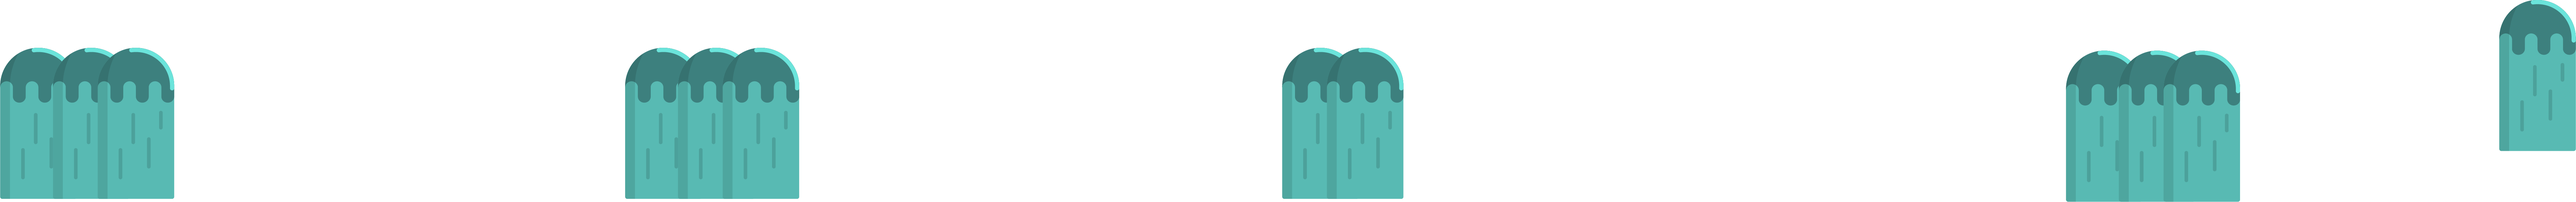
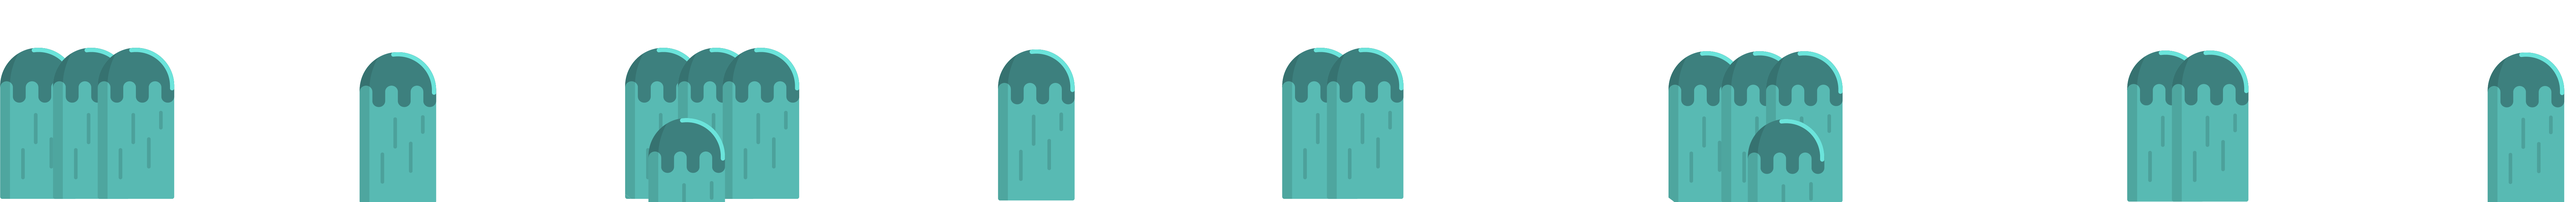
Creating the game end point.

diff --git a/app/(rootGame)/_components/AnimatedCanvas.tsx b/app/(rootGame)/_components/AnimatedCanvas.tsx
@@ -5,7 +5,7 @@ import { Player } from "@/utils/player";
 import { Platforms } from "@/utils/platforms";
 import { createImage } from "@/utils/createImage";
 import { GenericObjects } from "@/utils/genericObjects";
-import { randomNumbers } from "@/utils/randomNumbers";
+
 
 function AnimatedCanvas() {
   const longPlatformImg = createImage("assets/platform.png");
@@ -69,13 +69,13 @@ function AnimatedCanvas() {
 
   const updateCollisions = () => {
     setPlayer((curPlayer) => {
-      if (keys.right.pressed && curPlayer.position.x < 500) {
+      if (keys.right.pressed && curPlayer.position.x < 500&& km < 14000) {
         curPlayer.velocityX = 3;
-      } else if (keys.left.pressed && curPlayer.position.x > 230) {
+      } else if (keys.left.pressed && curPlayer.position.x > 230&& km !== 14000) {
         curPlayer.velocityX = -3;
       } else {
         curPlayer.velocityX = 0;
-        if (keys.right.pressed) {
+        if (keys.right.pressed && km < 14000) {
           km += 5;
           genericObjects.forEach((genericObject) => {
             genericObject.position.x -= 3;
@@ -83,7 +83,9 @@ function AnimatedCanvas() {
           platforms.forEach((platform) => {
             platform.position.x -= 5;
           });
-        } else if (keys.left.pressed) {
+          console.log(km);
+          
+        } else if (keys.left.pressed && km !== 14000) {
           km -= 5;
           genericObjects.forEach((genericObject) => {
             if (platforms[0].position.x !== 0) {
